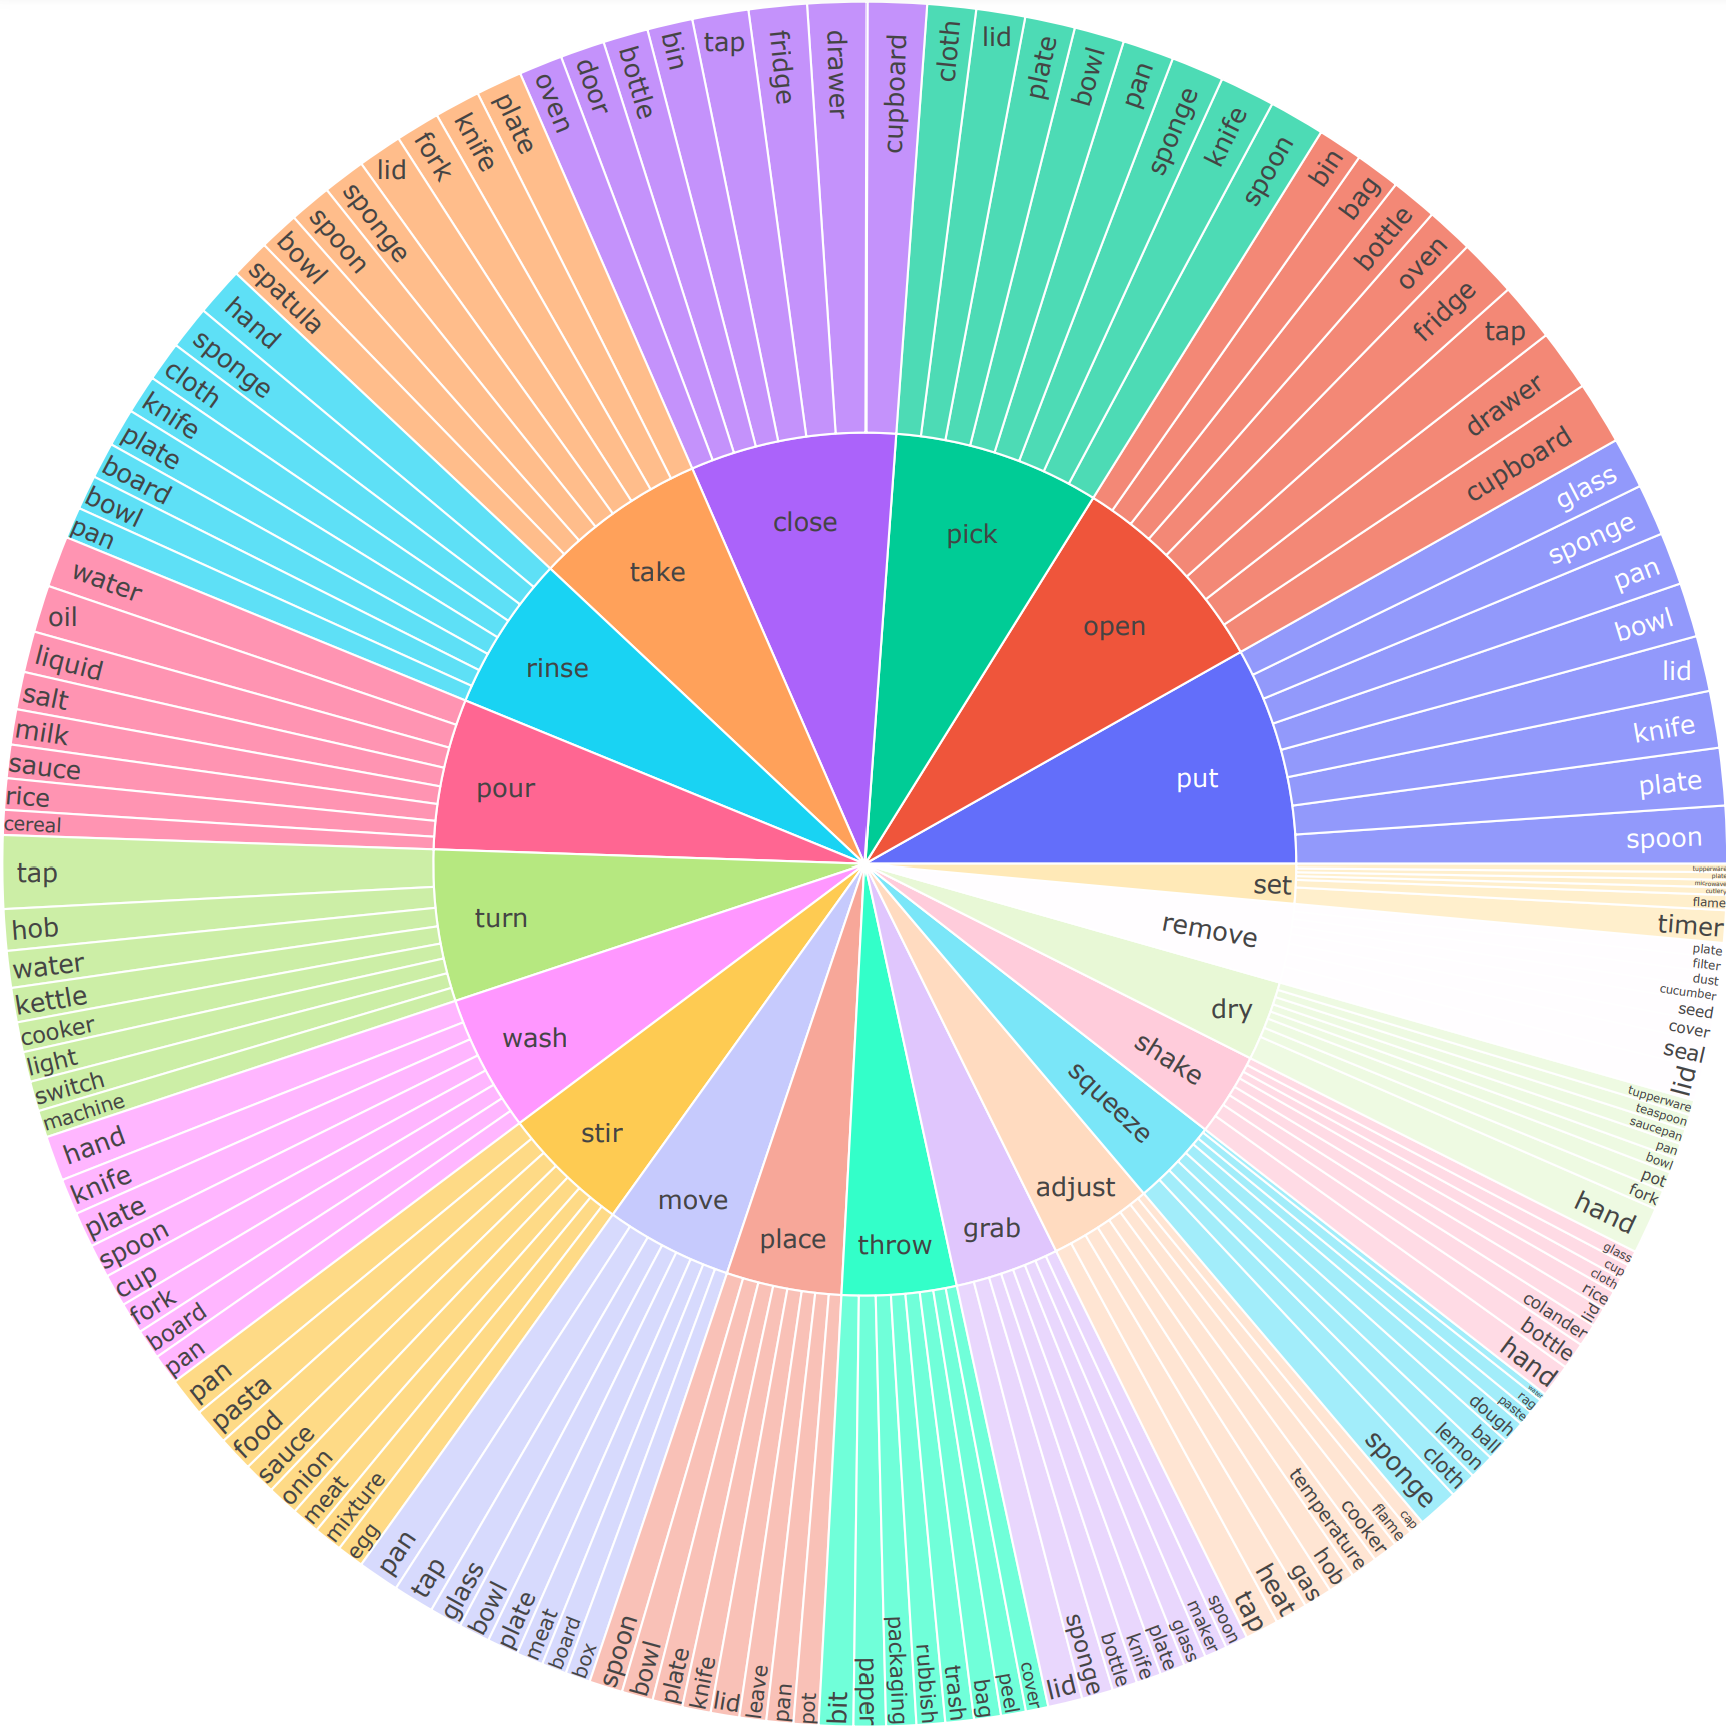
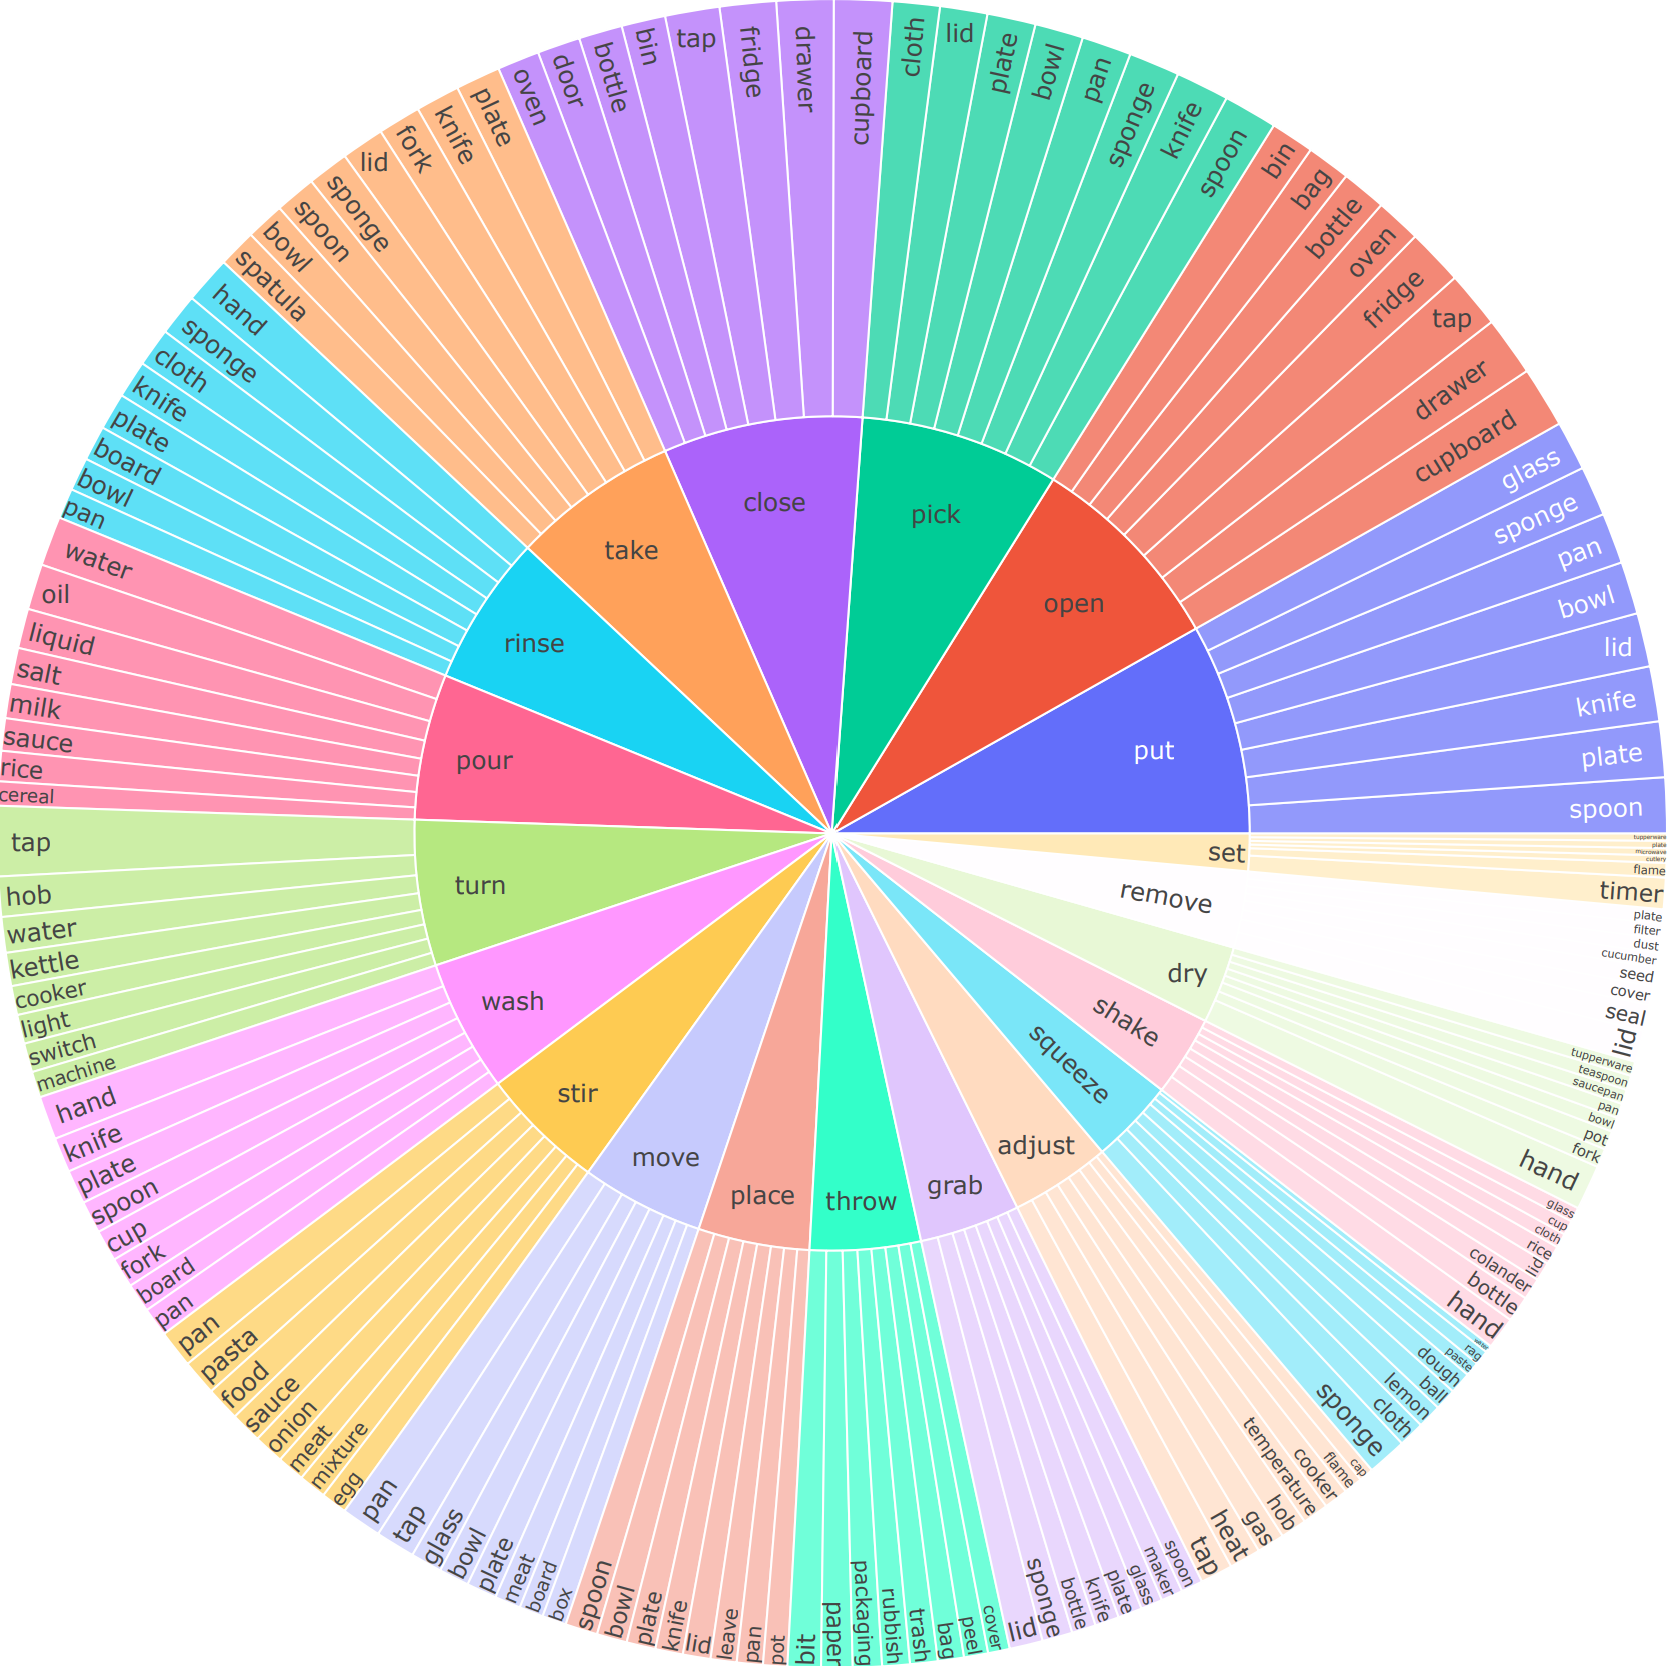
Update index.html.

diff --git a/ego_plan/index.html b/ego_plan/index.html
@@ -308,7 +308,7 @@ Multimodal Large Language Models</h1>
       <div class="column">
         <!-- Evaluation Data Statistics. -->
         <div class="content has-text-centered">
-          <img src="./static/images/data_statistics.png" width="79%"
+          <img src="./static/images/data_statistics.png" width="78.5%"
          alt="Evaluation Data Statistics."/>
           <p>
             a) Statistics of the evaluation data of EgoPlan-Bench.
@@ -318,7 +318,7 @@ Multimodal Large Language Models</h1>
 
         <!-- Task Goal Distribution. -->
         <div class="content has-text-centered">
-          <img src="./static/images/task_goal_distribution.png" width="79%"
+          <img src="./static/images/task_goal_distribution.png" width="78.5%"
          alt="Task Goal Distribution."/>
           <p>
             b) Wordcloud of verbs in task goals of EgoPlan-Bench.
